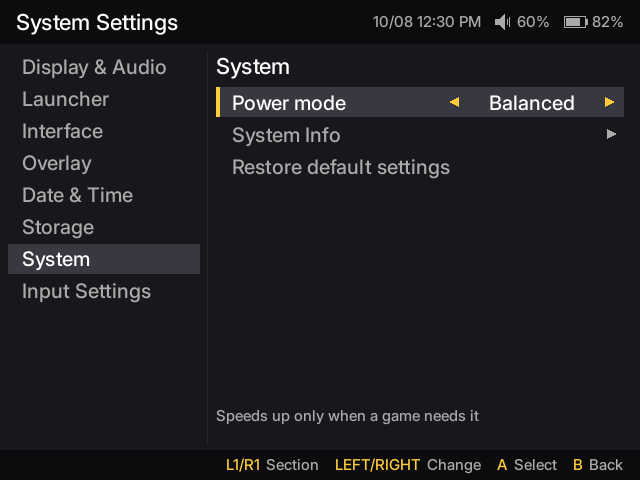
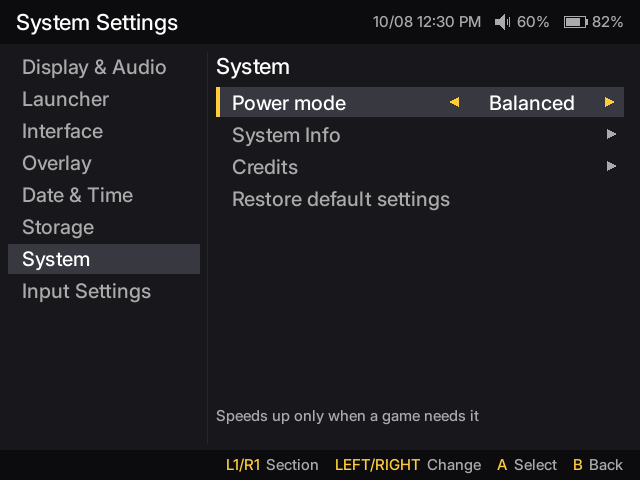
System Settings: a Credits page with upstream's credits list
Upstream added a credits app, launched from a System entry of
apps.puppy, which the fork's launcher keeps out of the tabs. The fork
shows the same list as a page of System instead: Puppy reads the
[credits] section of /usr/share/credits/credits.ini, so a name added
upstream shows here after a merge. Names are drawn as they are, not
translated, with one role per row under the name (Jeremy's three
don't fit next to it). The row only shows when the file has names.

The credits package stays in the tree, unchanged, so upstream's edits
merge cleanly; the fork's defconfig no longer builds it. Upstream's
User Guide entry stays out too: its shortcuts are the ones Input
Settings > Shortcuts already lists.

dev/gl copies credits.ini into the container, and a settings-credits
scene shows the page. settings-system gains the row; settings-restore
takes one more Down to reach Restore. The other scenes are unchanged.

Changed region(s): [[0.3438, 0.3125, 0.7188, 0.375], [0.3438, 0.4062, 0.7188, 0.4375], [0.9375, 0.3438, 0.9688, 0.375]]

diff --git a/rootfs/package/puppy/src/settings_pages.cpp b/rootfs/package/puppy/src/settings_pages.cpp
@@ -80,6 +80,7 @@ std::string SettingsScreen::title(Page p) const {
         case Page::Shortcuts: return tr("Shortcuts");
         case Page::Info:      return tr("System Info");
         case Page::Resize:    return tr("Resize Home");
+        case Page::Credits:   return tr("Credits");
         default:
             for (const auto& s : sections())
                 if (s.first == p) return tr(s.second);
@@ -116,6 +117,7 @@ std::vector<Row> SettingsScreen::rows(Page p) {
         case Page::Shortcuts: return shortcutsPage();
         case Page::Info:      return infoPage();
         case Page::Resize:    return resizePage();
+        case Page::Credits:   return creditsPage();
     }
     return {};
 }
@@ -437,6 +439,7 @@ std::vector<Row> SettingsScreen::systemPage() {
         resize = Resize::read();
         open(Page::Info);
     }));
+    if (!credits.empty()) rows.push_back(Row::link("Credits", [this] { open(Page::Credits); }));
     // Overlay, Date & Time, the launcher's view, tabs, font and accent, and the power mode; the language,
     // the time zone and the clock stay
     rows.push_back(Row::action("Restore default settings", [this] {
@@ -503,6 +506,24 @@ std::vector<Row> SettingsScreen::shortcutsPage() {
     for (const auto& s : kShortcuts) {
         if (!s[1]) rows.push_back(Row::section(s[0]));
         else rows.push_back(Row::info(s[0], tr(s[1])));
+    }
+    return rows;
+}
+
+// One role per row, under the name: "PROJECT LEAD/ENGINEERING/DEVELOPMENT" doesn't fit next to it
+std::vector<Row> SettingsScreen::creditsPage() {
+    std::vector<Row> rows;
+    for (const auto& c : credits) {
+        std::string name = c.first;
+        size_t from = 0;
+        do {
+            const size_t slash = c.second.find('/', from);
+            Row r = Row::info(name, trim(c.second.substr(from, slash == std::string::npos ? slash : slash - from)));
+            r.rawLabel = true;
+            rows.push_back(r);
+            name.clear();
+            from = slash == std::string::npos ? slash : slash + 1;
+        } while (from != std::string::npos);
     }
     return rows;
 }

diff --git a/rootfs/package/puppy/src/settings.h b/rootfs/package/puppy/src/settings.h
@@ -65,7 +65,7 @@ public:
 
 private:
     enum class Page { Display, Launcher, Interface, Overlay, DateTime, Storage, System, Input,
-                      Tabs, Shortcuts, Info, Resize };
+                      Tabs, Shortcuts, Info, Resize, Credits };
     struct Cursor {
         int sel = -1;       // the selected row, -1 for none (a page with nothing to change scrolls)
         int scroll = 0;     // the first row on screen
@@ -90,6 +90,7 @@ private:
     TrashStats trash;
     Resize resize;
     SystemInfo info;
+    std::vector<std::pair<std::string, std::string>> credits;   // System shows its row only when there are some
     std::string startLanguage;
     Uint32 saveAt = 0;              // the brightness or volume changed: saved then (0: nothing to save)
     Uint32 watchUntil = 0, nextWatch = 0;   // a card is being detected or ejected: re-read it until then
@@ -133,4 +134,5 @@ private:
     std::vector<Row> inputPage();
     std::vector<Row> shortcutsPage();
     std::vector<Row> resizePage();
+    std::vector<Row> creditsPage();
 };

diff --git a/rootfs/package/puppy/src/system/sysinfo.cpp b/rootfs/package/puppy/src/system/sysinfo.cpp
@@ -62,3 +62,19 @@ SystemInfo SystemInfo::read() {
     }
     return s;
 }
+
+std::vector<std::pair<std::string, std::string>> readCredits() {
+    std::vector<std::pair<std::string, std::string>> list;
+    std::ifstream in("/usr/share/credits/credits.ini");
+    bool inCredits = false;
+    for (std::string line; std::getline(in, line);) {
+        line = trim(line);
+        if (line.empty() || line[0] == ';') continue;
+        if (line[0] == '[') { inCredits = line == "[credits]"; continue; }
+        if (!inCredits) continue;
+        const size_t eq = line.find('=');
+        if (eq == std::string::npos) list.emplace_back(line, "");
+        else list.emplace_back(trim(line.substr(0, eq)), trim(line.substr(eq + 1)));
+    }
+    return list;
+}

diff --git a/rootfs/package/puppy/src/system/sysinfo.h b/rootfs/package/puppy/src/system/sysinfo.h
@@ -1,6 +1,8 @@
 #pragma once
 // System Info: what the console is and how it's doing.
 #include <string>
+#include <utility>
+#include <vector>
 
 struct SystemInfo {
     std::string model, os, kernel;
@@ -11,3 +13,6 @@ struct SystemInfo {
 
     static SystemInfo read();
 };
+
+// The [credits] section of upstream's credits app (/usr/share/credits/credits.ini): name and role
+std::vector<std::pair<std::string, std::string>> readCredits();

diff --git a/rootfs/package/puppy/src/settings.cpp b/rootfs/package/puppy/src/settings.cpp
@@ -120,6 +120,7 @@ static int firstFocusable(const std::vector<Row>& rows) {
 SettingsScreen::SettingsScreen(App& app, Model& launcher, Hooks hooks)
     : Screen(app), launcher(launcher), hooks(std::move(hooks)), cursors(1) {
     startLanguage = i18n::current();
+    credits = readCredits();
     reload();
 }
 

diff --git a/README.md b/README.md
@@ -195,6 +195,7 @@ System Settings
 ├── System
 │   ├── Power mode: Battery saver / Balanced / Performance
 │   ├── System Info
+│   ├── Credits
 │   └── Restore default settings
 └── Input Settings
     ├── Shortcuts ─ every shortcut
@@ -211,6 +212,7 @@ System Settings
 - **Resize Home**: expands HOME to fill the rest of the card, at the next boot (it asks first, then restarts). HOME is backed up to RAM while it's resized, so do it right after flashing, before copying your games.
 - **Empty trash**: deletes for good the games moved to the trash in the launcher.
 - **Power mode**: Balanced (the default) speeds the CPU and GPU up only when a game needs it; Battery saver caps the CPU at 816 MHz and the GPU at 240 MHz, for a longer battery life (heavy PS1 games may slow down); Performance keeps both at full speed. The choice is kept across reboots.
+- **Credits**: the people who made goodluckOS, from the list of upstream's credits app (`/usr/share/credits/credits.ini`).
 - **Restore default settings**: puts Overlay, Date & Time, the launcher's view, tabs, font and accent color, and the power mode back to the defaults in `/usr/share/goodluck/defaults`, keeping the language, the time zone and the clock.
 
 UP / DOWN pick a section and A or RIGHT opens its page; there, LEFT / RIGHT change the selected setting (A opens the list of choices, or turns a switch on or off), B goes back, and L1 / R1 go to the previous / next section from anywhere. START closes System Settings, and POWER opens the power options here too. A change applies and is saved right away, the language and the font included. A page scrolls with the d-pad when it doesn't fit the screen.
